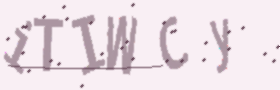
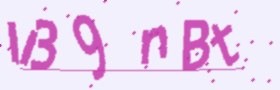
Refactor verification system

diff --git a/cogs/system/H verification.py b/cogs/system/H verification.py
@@ -5,14 +5,6 @@ from discord.ext import commands
 from cogs.mod._utils.audit_log import audit_log
 from captcha.image import ImageCaptcha
 
-class Verify(discord.ui.View):
-    def __init__(self):
-        super().__init__(timeout=None)
-    
-    # @discord.ui.button(custom_id="Verification")
-    # async def verifybutton(self, button: discord.ui.Button, interaction: discord.Interaction):
-    #     print("Starting verification...")
-
 class Verification(commands.Cog):
     def __init__(self, client):
         self.client: discord.Client = client
@@ -52,6 +44,7 @@ class Verification(commands.Cog):
                 logs.add_field(name="Creation", value=f"<t:{f'{interaction.user.created_at.timestamp()}'.split('.')[0]}:R>", inline=True)
                 logs.add_field(name="Status", value=f"`{interaction.user.name}` has successfully passed verification.", inline=False)
                 await audit_log(v.client, interaction, "Verification", logs)
+                return
             ###
             
             # Captcha
@@ -115,7 +108,7 @@ class Verification(commands.Cog):
                         else:
                             attemp -= 1
                             if attemp != 0:
-                                embed = discord.Embed(title="Incorrect", description=f"**You have {attemp} attempts left.**", error=v.error)
+                                embed = discord.Embed(title="Incorrect", description=f"**You have {attemp} attempts left.**", color=v.error)
                                 await dm.send(embed=embed)
                     
                     else:
@@ -161,8 +154,8 @@ class Verification(commands.Cog):
                 except discord.HTTPException:
                     error = discord.Embed(description="**I wasn't able to DM you.. Open your DMs and try to reverify.**", color=v.error)
                     return await interaction.response.send_message(embed=error, ephemeral=True)
+                return
             ###
-                    
             if mode == "captcha_channel":
                 class CaptchaModal(discord.ui.Modal):
                     def __init__(self):
@@ -196,7 +189,7 @@ class Verification(commands.Cog):
                             else:
                                 attemp -= 1
                                 if attemp != 0:
-                                    embed = discord.Embed(title="Incorrect", description=f"**You have {attemp} attempts left.**", error=v.error)
+                                    embed = discord.Embed(title="Incorrect", description=f"**You have {attemp} attempts left.**", color=v.error)
                                     await interaction.response.send_message(embed=embed, ephemeral=True)
                         else:
                             if attemp == 0:
@@ -275,8 +268,11 @@ class Verification(commands.Cog):
             )
         )
 
+        view = discord.ui.View()
+        view.add_item(discord.ui.Button(label="Verify", style=discord.ButtonStyle.green, custom_id="Verification"))
+
         channel = self.client.get_channel(int(chan))
-        await channel.send(embed=emb, view=Verify())
+        await channel.send(embed=emb, view=view)
 
 def setup(client):
     client.add_cog(Verification(client))
